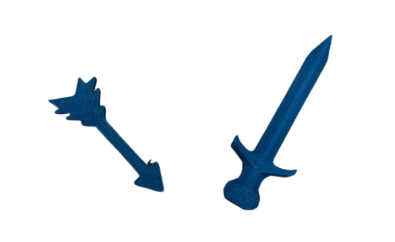
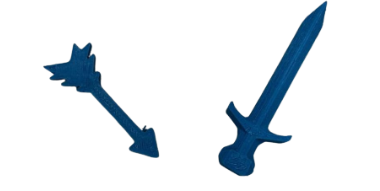
Centrate immagini rispetto ai riquadri

diff --git a/style.css b/style.css
@@ -1209,11 +1209,13 @@ body {
     display: flex;
     flex-direction: column;
     flex: 1;
+    align-items: center;
 }
 
 .incarnazione-item .incarnazione-card {
     flex-grow: 1;
     height: auto;
+    width: 100%;
 }
 
 .incarnazione-card {